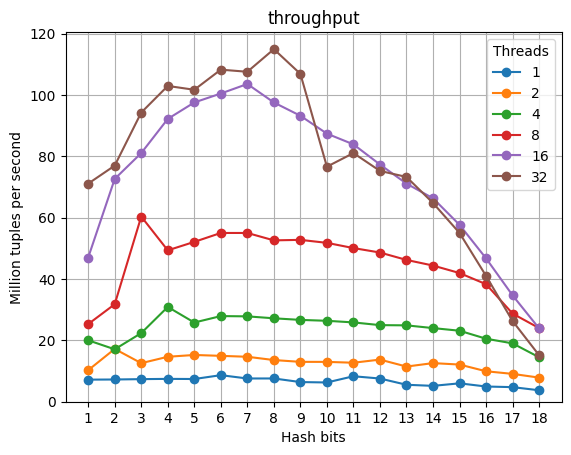
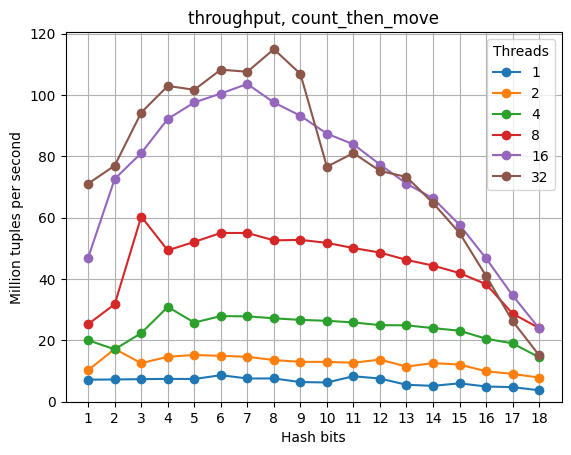
Also write method in throughput charts

Changed region(s): [[0.3275, 0.0308, 0.7741, 0.0615]]

diff --git a/partitioning/generateMetricCharts.py b/partitioning/generateMetricCharts.py
@@ -28,7 +28,7 @@ for file in file_list:
         ax.set_ylabel('Million tuples per second')
         formatter = ticker.FuncFormatter(lambda x, pos: '{:.0f}'.format(round(x/1000000)))
         ax.yaxis.set_major_formatter(formatter)
-        ax.set_title("throughput")
+        ax.set_title("throughput, " + method)
     else:
         method = os.path.basename(directory).lower()
         ax.set_ylabel(metric)
